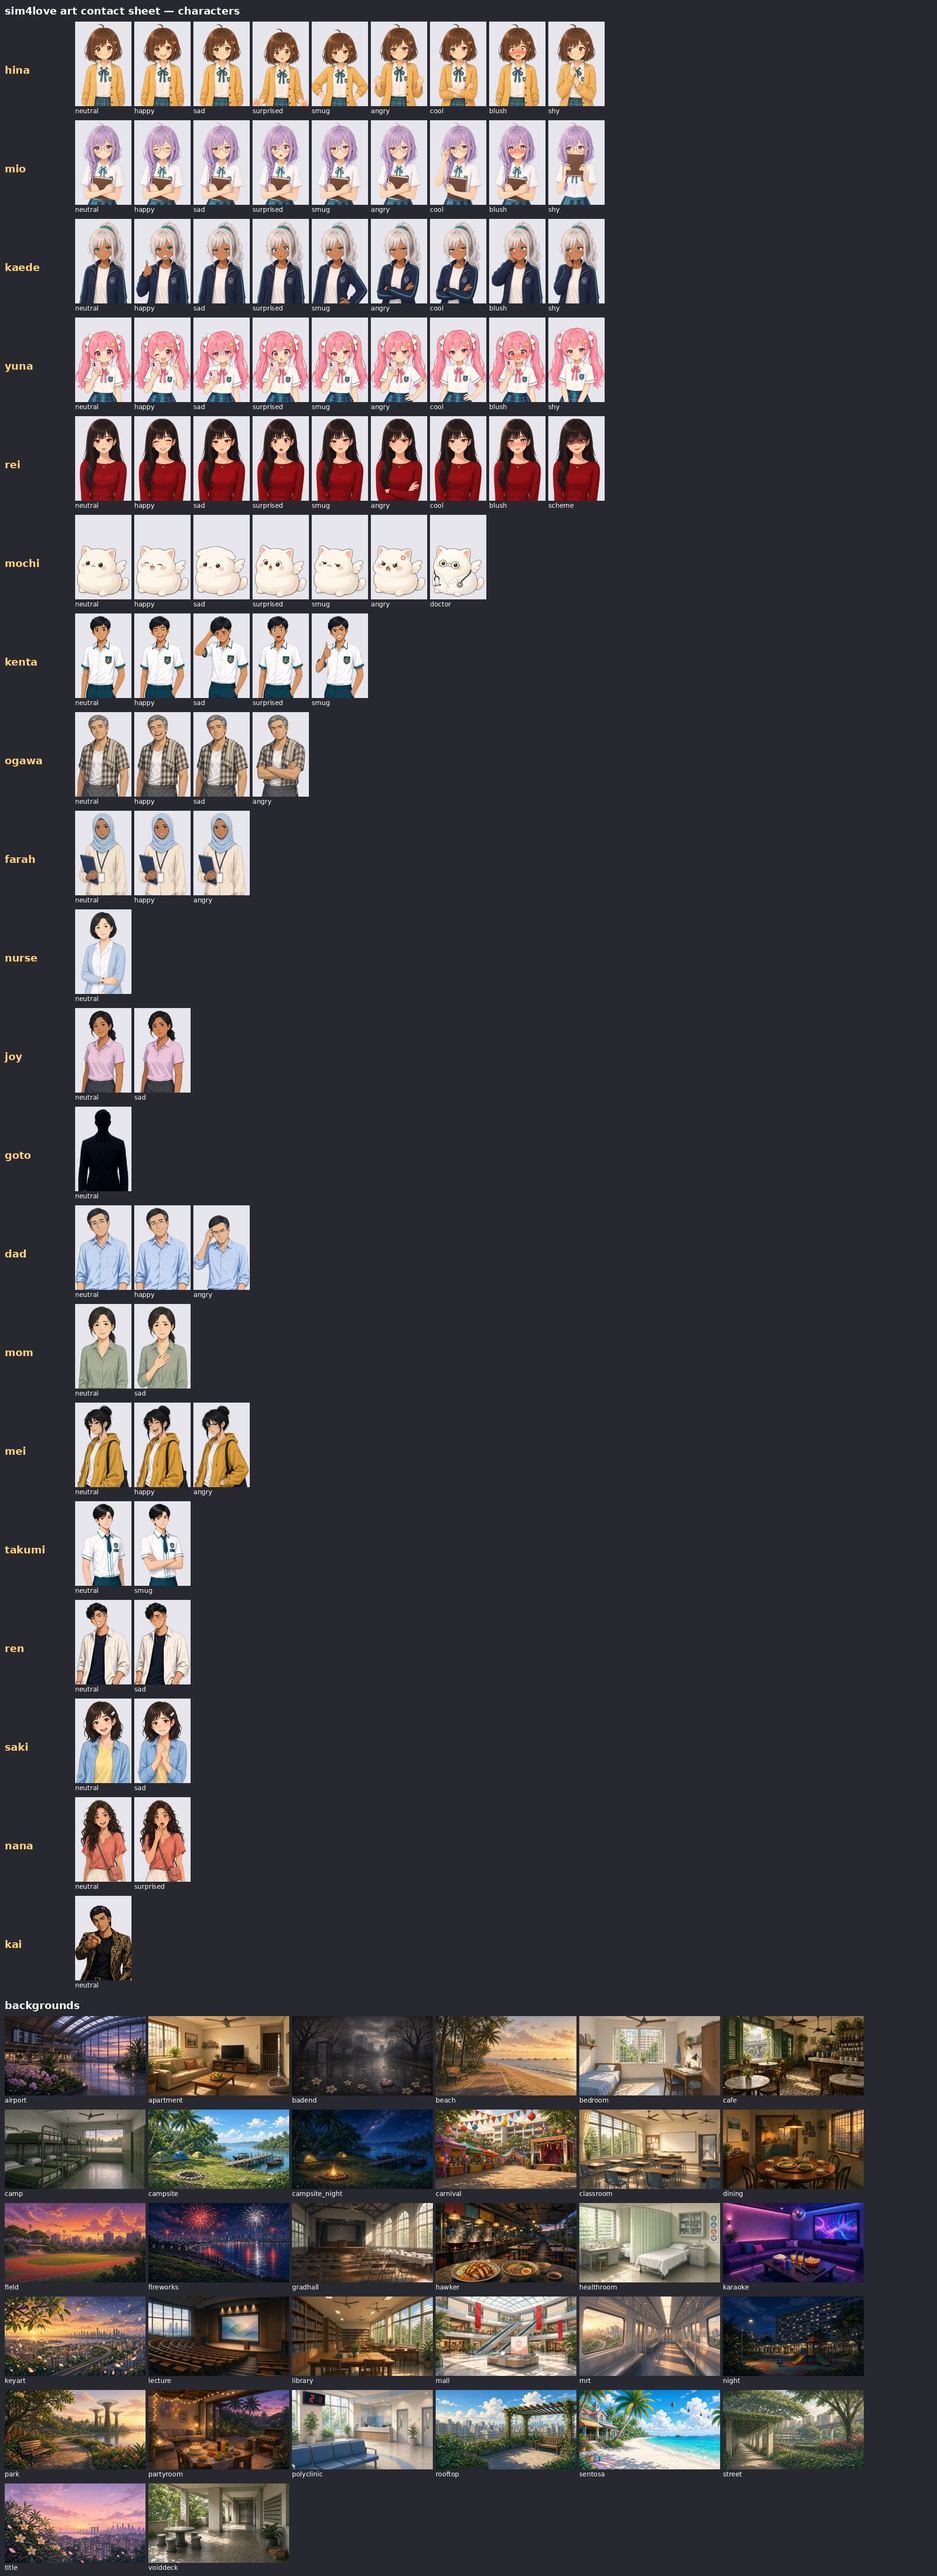
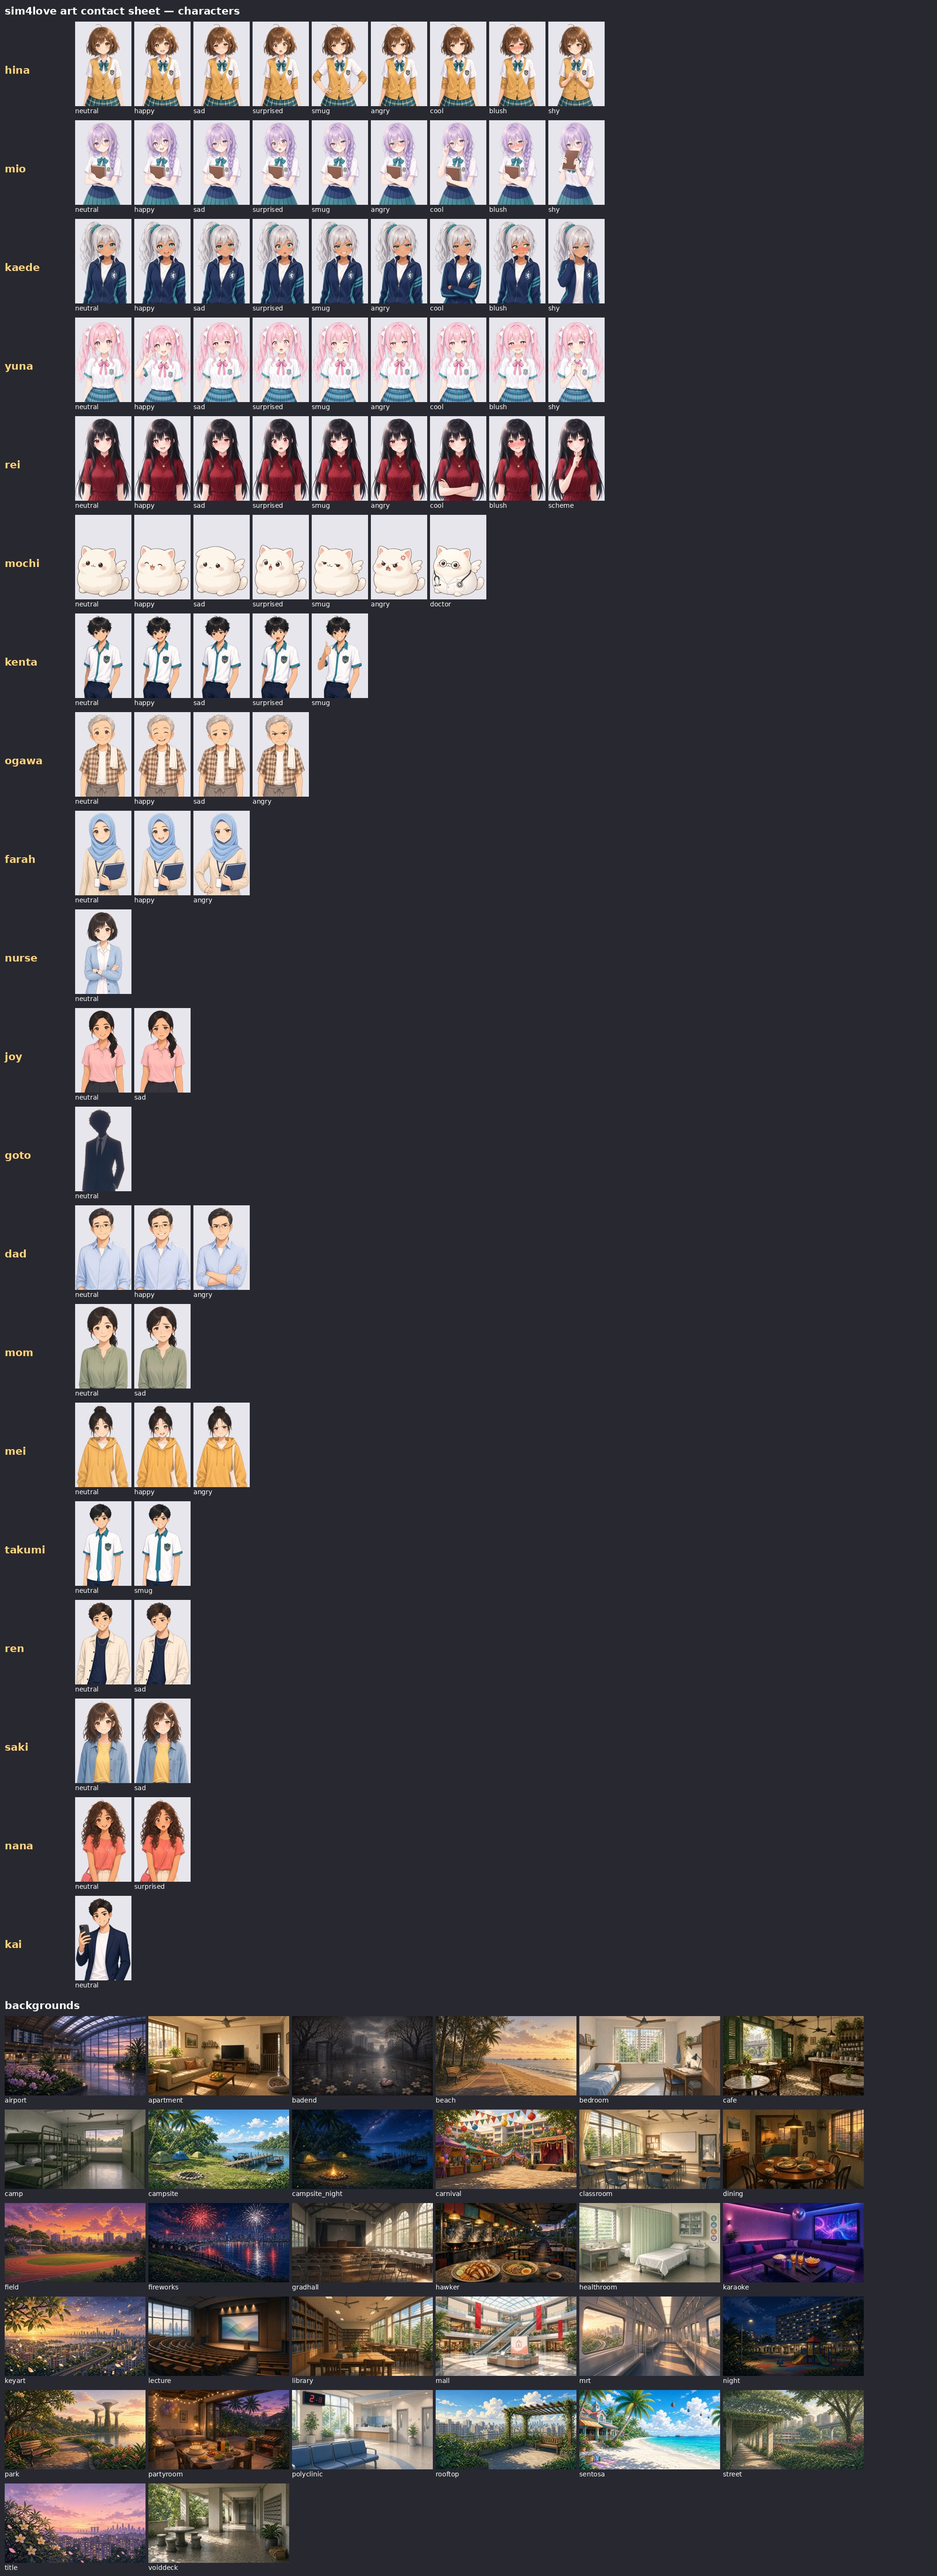
docs: refresh art contact sheet and notes for v2 kawaii redraw

Changed region(s): [[0.0621, 0.0, 0.6523, 0.7795]]

diff --git a/docs/art-notes.md b/docs/art-notes.md
@@ -4,9 +4,17 @@ Generated art for the Singapore setting. Manifest: `js/sprites.js` (`window.SPRI
 
 ## Rules followed
 - Heroines (hina, mio, kaede, yuna) redrawn in a generic Singapore JC uniform (fictional crest, no real school).
-- Rae (rei) original sprites kept; sad/angry added in matching style. Mochi original PNGs kept; `doctor` added.
+- v2 (kawaii redraw): every human sprite (heroines + supporting cast, 78 files) redrawn in one consistent Japanese-anime style. Mochi unchanged.
 - Backgrounds: no people, frangipani instead of sakura, no real brands/logos. No CGs.
 - Content: all-ages; nothing beyond a hug.
+
+## v2 kawaii style (2026-11-02)
+- Style: large shiny expressive anime eyes, round soft faces, clean line art, soft cel shading, pastel-warm palette; waist-up, plain white bg, then rembg `isnet-anime` cutout.
+- Method: one `neutral` per character first; every other expression is generated from that neutral as reference ("same character, same outfit, same framing, same art style; only change the expression to …") so outfits/faces stay consistent. Adults/supporting cast used a heroine/Kenta neutral as style reference plus "not realistic" to avoid semi-realistic faces.
+- Skin tones / cast: the multicultural cast is kept (Kenta Malay, Farah Malay in a light-blue hijab, Kaede Indian with warm caramel-tan skin, Nana Eurasian with warm tan and curly hair, others Chinese). Everyone gets the same soft anime skin rendering; no one was lightened or had their ethnicity removed. Faces are non-sexualised and age-appropriate.
+- Kai redesign: dropped the gold-blazer trope; now a neutral smart-casual look (navy unstructured blazer over a white tee, holding a phone), ethnicity unspecified so the antagonist is not coded to any group.
+- Goto remains a faceless silhouette by design. No name tags or on-image text (nurse badge removed).
+- Filenames/ids unchanged: rei's legacy ids stay `.png` (neutral, happy, surprised, blush, smug, scheme, cool); everything else `.webp`. `js/sprites.js` unchanged (20 chars, 85 sprites).
 
 ## Formats
 - Characters: transparent WEBP (q86) or legacy PNG, 800x1200, bottom-centred. Mochi: 800x800 square.
